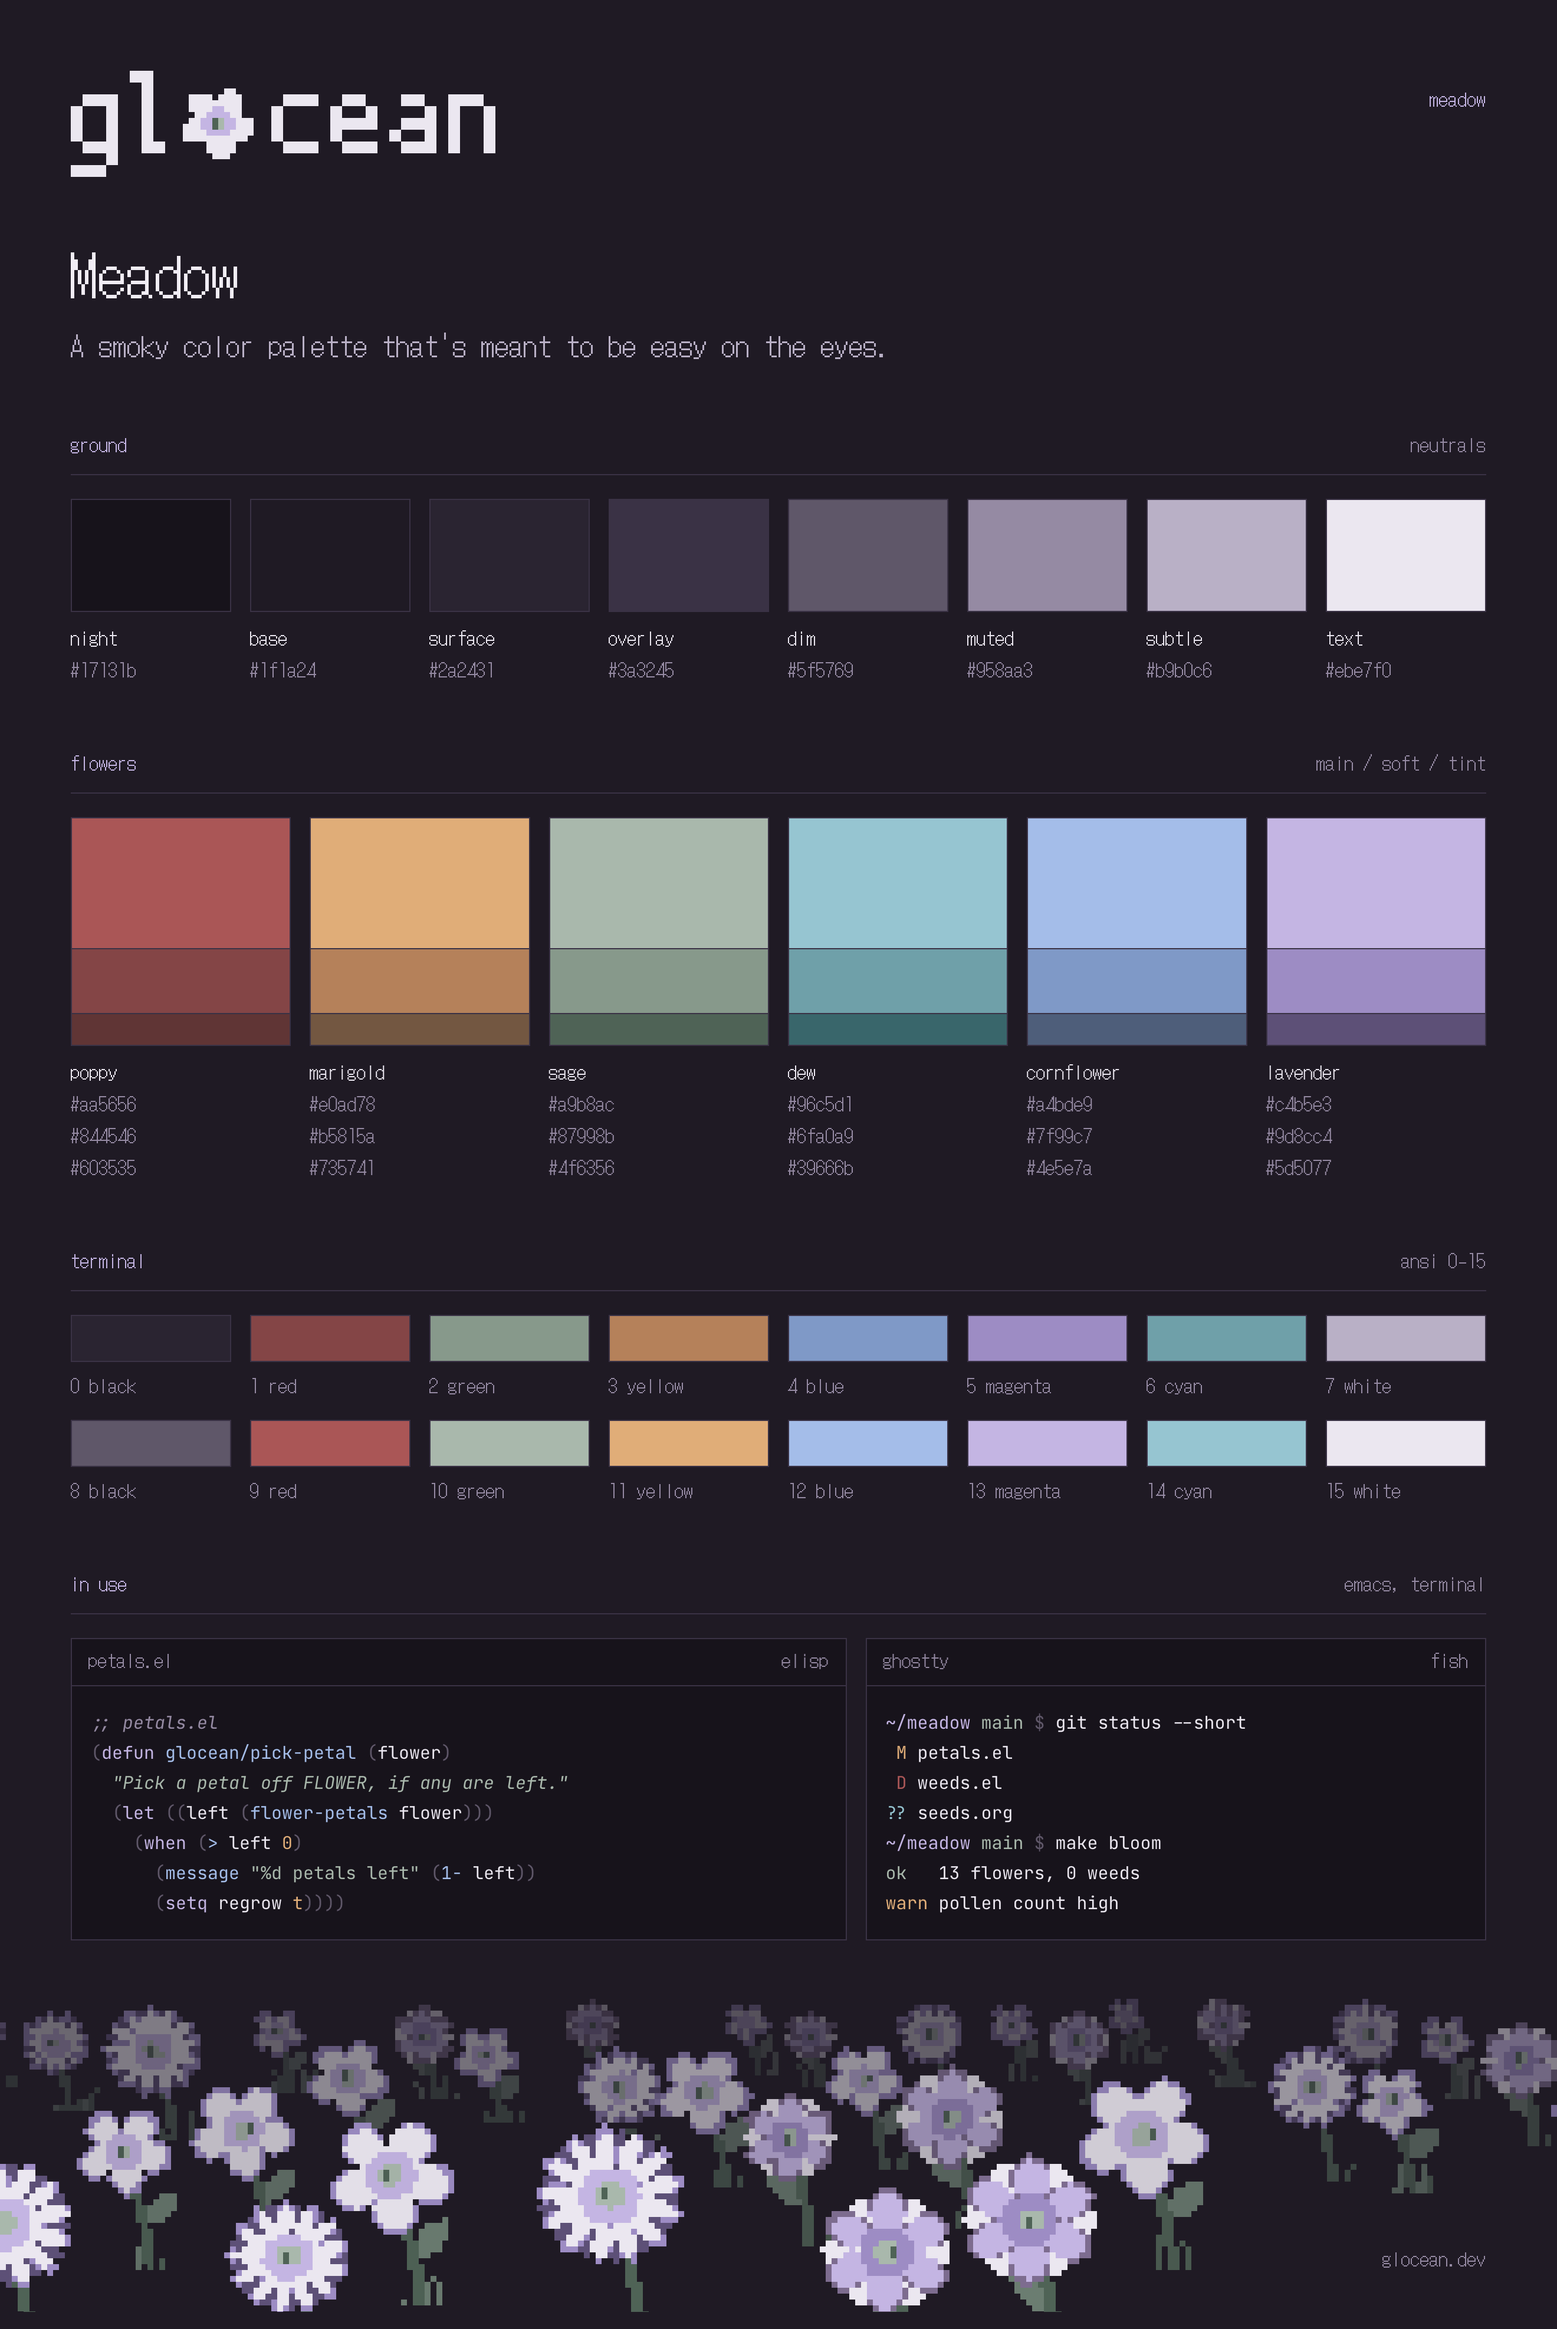
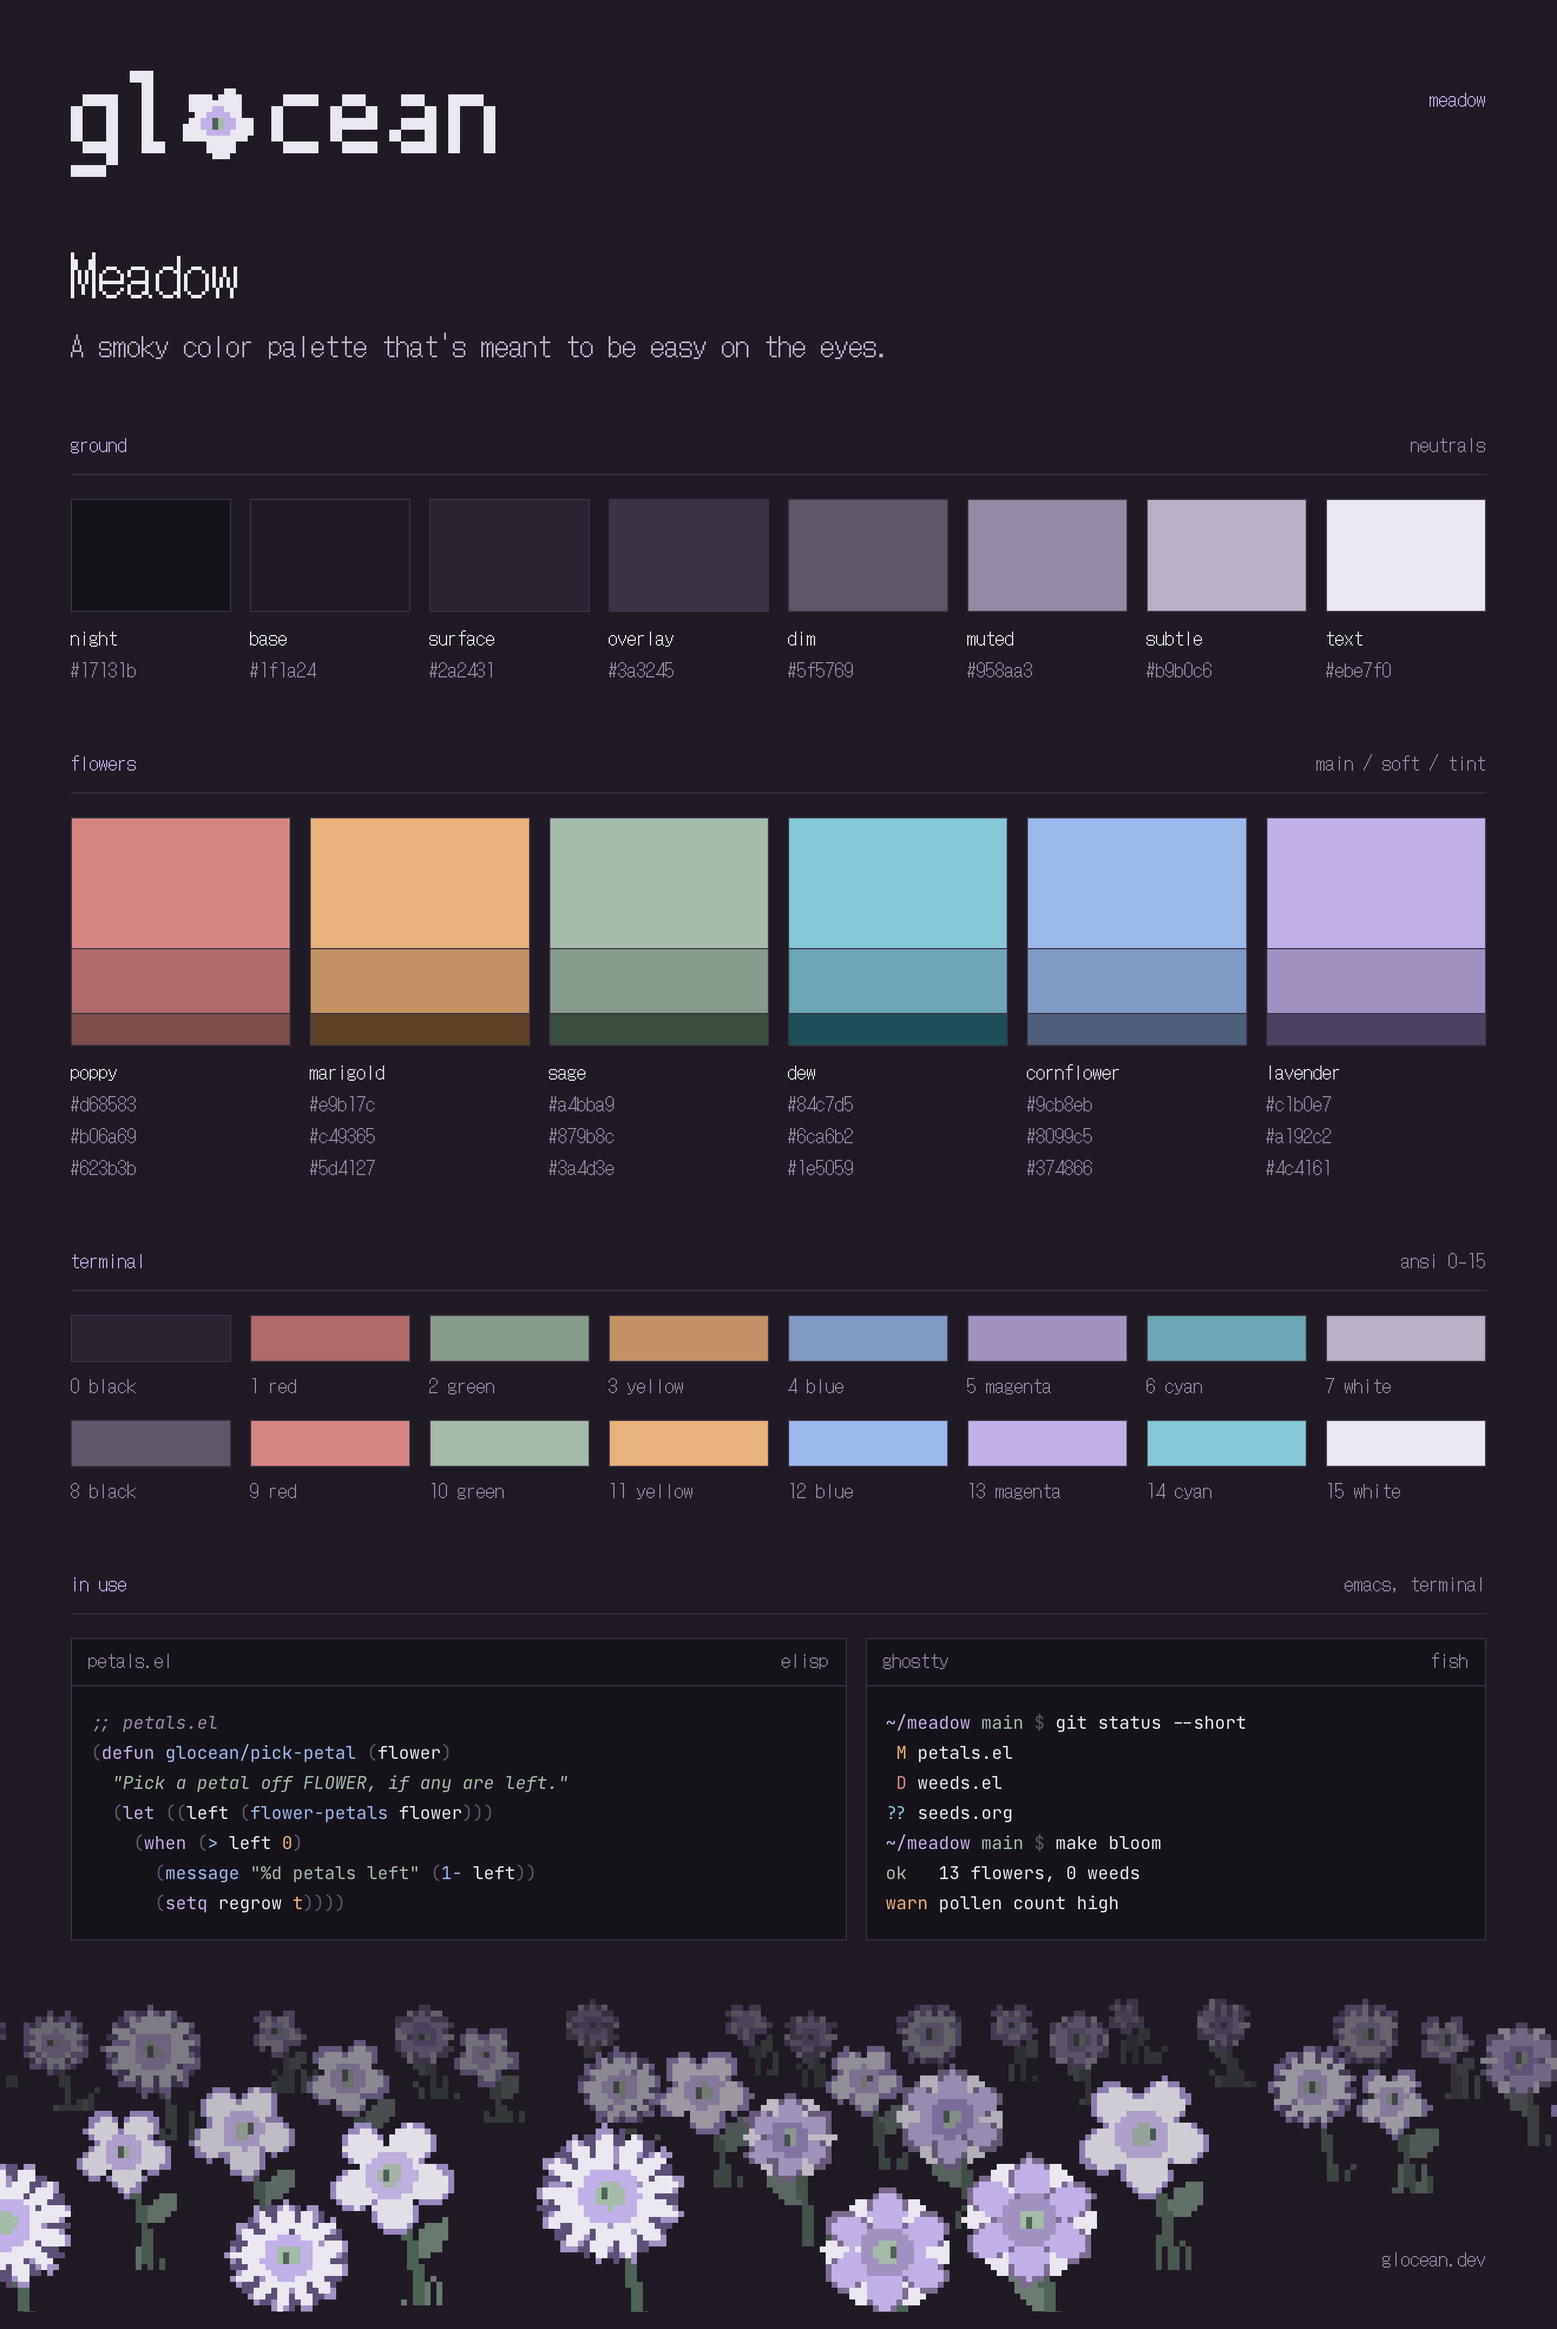
palette: brighten meadow flowers

Changed region(s): [[0.0311, 0.3425, 0.3417, 0.4671], [0.1553, 0.5605, 0.2795, 0.6539], [0.497, 0.4359, 0.6523, 0.4671]]

diff --git a/GUIDELINES.md b/GUIDELINES.md
@@ -36,12 +36,12 @@ There are six flowers, and each one comes in three shades:
 
 | Flower | Meadow (main / soft / tint) | Meadow Light (main / soft / tint) |
 |---|---|---|
-| poppy | `#aa5656` `#844546` `#603535` | `#a56260` `#b77b7a` `#f3cfce` |
-| marigold | `#e0ad78` `#b5815a` `#735741` | `#a9825a` `#bc9a78` `#e8d5c3` |
-| sage | `#a9b8ac` `#87998b` `#4f6356` | `#6e8272` `#87978a` `#d3dcd4` |
-| dew | `#96c5d1` `#6fa0a9` `#39666b` | `#5f828b` `#7a98a0` `#ccdde1` |
-| cornflower | `#a4bde9` `#7f99c7` `#4e5e7a` | `#6a7c9d` `#8393af` `#d0daea` |
-| lavender | `#c4b5e3` `#9d8cc4` `#5d5077` | `#807597` `#968caa` `#dbd6e7` |
+| poppy | `#d68583` `#b06a69` `#623b3b` | `#a56260` `#b77b7a` `#f3cfce` |
+| marigold | `#e9b17c` `#c49365` `#5d4127` | `#a9825a` `#bc9a78` `#e8d5c3` |
+| sage | `#a4bba9` `#879b8c` `#3a4d3e` | `#6e8272` `#87978a` `#d3dcd4` |
+| dew | `#84c7d5` `#6ca6b2` `#1e5059` | `#5f828b` `#7a98a0` `#ccdde1` |
+| cornflower | `#9cb8eb` `#8099c5` `#374866` | `#6a7c9d` `#8393af` `#d0daea` |
+| lavender | `#c1b0e7` `#a192c2` `#4c4161` | `#807597` `#968caa` `#dbd6e7` |
 
 Poppy, marigold and sage double as the status colors (error, warning and success). That is on purpose, so try to not use them for anything that could be mistaken for a status.
 
@@ -118,20 +118,20 @@ Italics are used for comments and docstrings only (and quotes in markup). If the
 | # | Color | Meadow | Meadow Light |
 |---|---|---|---|
 | 0 | black | `#2a2431` | `#f8f5fc` |
-| 1 | red | `#844546` | `#b77b7a` |
-| 2 | green | `#87998b` | `#87978a` |
-| 3 | yellow | `#b5815a` | `#bc9a78` |
-| 4 | blue | `#7f99c7` | `#8393af` |
-| 5 | magenta | `#9d8cc4` | `#968caa` |
-| 6 | cyan | `#6fa0a9` | `#7a98a0` |
+| 1 | red | `#b06a69` | `#b77b7a` |
+| 2 | green | `#879b8c` | `#87978a` |
+| 3 | yellow | `#c49365` | `#bc9a78` |
+| 4 | blue | `#8099c5` | `#8393af` |
+| 5 | magenta | `#a192c2` | `#968caa` |
+| 6 | cyan | `#6ca6b2` | `#7a98a0` |
 | 7 | white | `#b9b0c6` | `#5c5169` |
 | 8 | bright black | `#5f5769` | `#a9a0b4` |
-| 9 | bright red | `#aa5656` | `#a56260` |
-| 10 | bright green | `#a9b8ac` | `#6e8272` |
-| 11 | bright yellow | `#e0ad78` | `#a9825a` |
-| 12 | bright blue | `#a4bde9` | `#6a7c9d` |
-| 13 | bright magenta | `#c4b5e3` | `#807597` |
-| 14 | bright cyan | `#96c5d1` | `#5f828b` |
+| 9 | bright red | `#d68583` | `#a56260` |
+| 10 | bright green | `#a4bba9` | `#6e8272` |
+| 11 | bright yellow | `#e9b17c` | `#a9825a` |
+| 12 | bright blue | `#9cb8eb` | `#6a7c9d` |
+| 13 | bright magenta | `#c1b0e7` | `#807597` |
+| 14 | bright cyan | `#84c7d5` | `#5f828b` |
 | 15 | bright white | `#ebe7f0` | `#352c3f` |
 
 On top of the 16 colors, use base for the background, text for the foreground, lavender main for the cursor and lavender tint for the selection. "Black" and "white" are named after their place in a dark terminal, so in Meadow Light black is the light one and white is the dark one. That is normal for light themes, and it keeps programs that hardcode these colors readable.

diff --git a/README.md b/README.md
@@ -13,12 +13,12 @@ Eight neutrals for the ground colors, and six flower shades that each come in a 
 
 | Flower | Meadow | Meadow Light |
 |---|---|---|
-| poppy | `#aa5656` | `#a56260` |
-| marigold | `#e0ad78` | `#a9825a` |
-| sage | `#a9b8ac` | `#6e8272` |
-| dew | `#96c5d1` | `#5f828b` |
-| cornflower | `#a4bde9` | `#6a7c9d` |
-| lavender | `#c4b5e3` | `#807597` |
+| poppy | `#d68583` | `#a56260` |
+| marigold | `#e9b17c` | `#a9825a` |
+| sage | `#a4bba9` | `#6e8272` |
+| dew | `#84c7d5` | `#5f828b` |
+| cornflower | `#9cb8eb` | `#6a7c9d` |
+| lavender | `#c1b0e7` | `#807597` |
 
 These are just the main shades. The full list, along with which color goes where, is in the guidelines.
 
